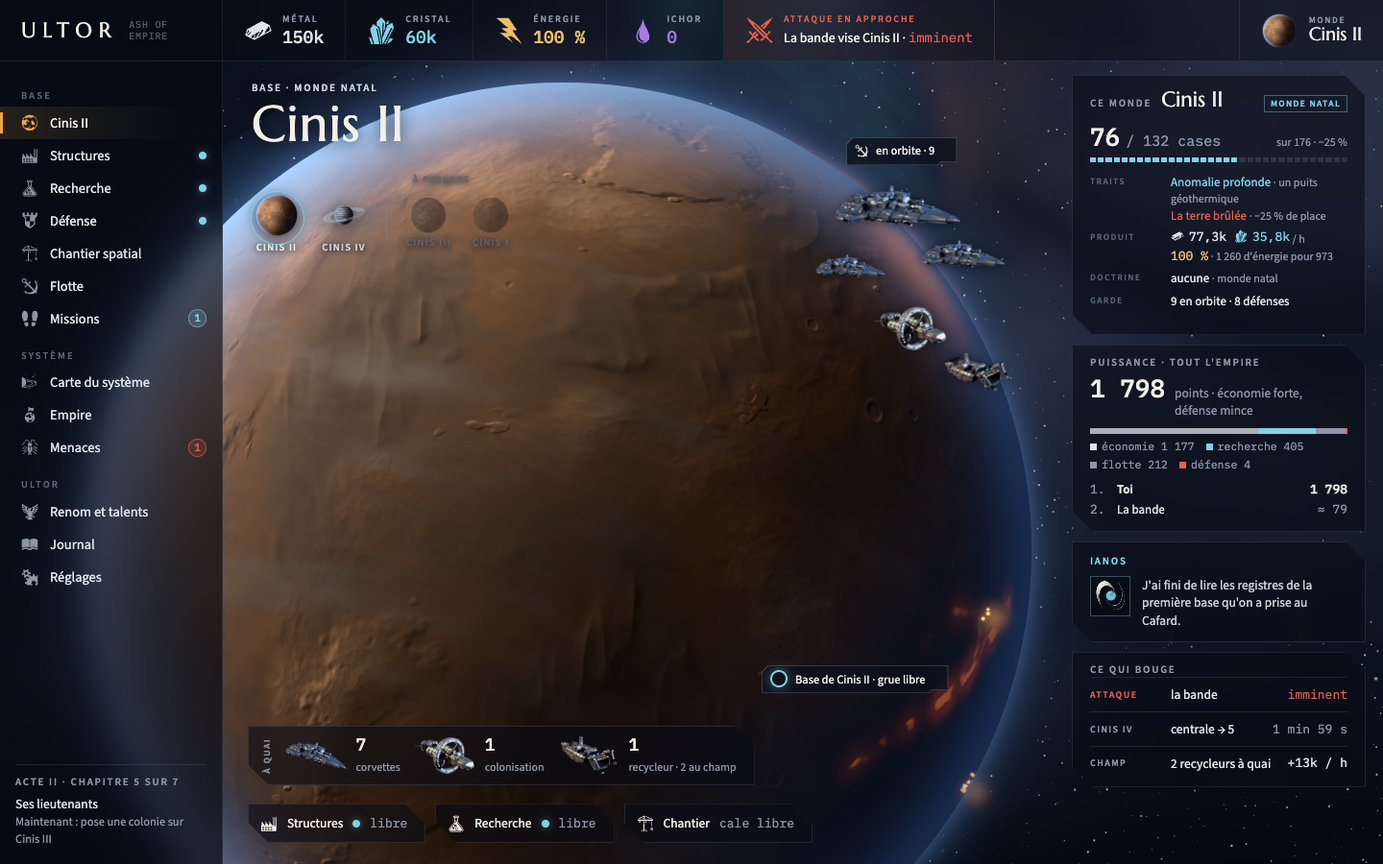
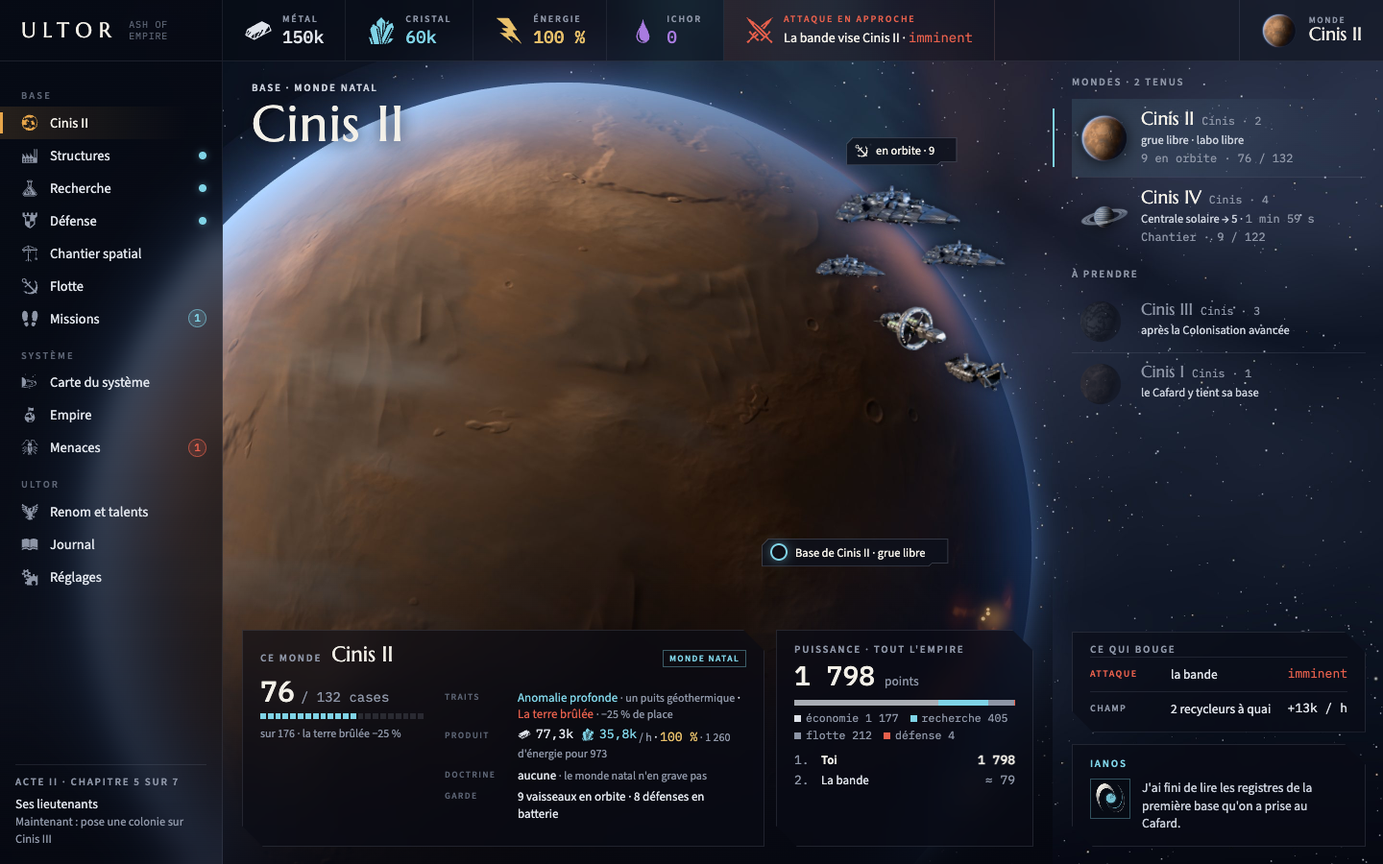
Maquettes b6158062

diff --git a/maquettes/accueil-d.html b/maquettes/accueil-d.html
@@ -35,8 +35,10 @@
 </header>
 <main class="main">
 <style>
-  /* D : la mise en page de C (la planète héroïne, les volets translucides à droite), plus le changement de monde, la
-     flotte en orbite ET à quai, et le bloc CE MONDE. Le changement de monde se fait en CSS seul (:has), animé. */
+  /* D (23 oct., le fondateur : « la puissance et la planète en bas plutôt que dans le panneau à droite, et à droite on
+     met la liste des planètes ; la flotte à quai on peut virer, structure libre, recherche libre etc ça existe déjà via
+     le menu ») : la planète en héroïne, CE MONDE et la PUISSANCE en bande sur son bas, la liste des mondes à droite — elle
+     EST le sélecteur, et le changement de monde reste animé en CSS seul (:has). */
   .screen.d { background: #05070f; }
   .screen.d .main { position: static; overflow: visible; }
   .heroes { position: absolute; inset: 0; z-index: 0; overflow: hidden; pointer-events: none; }
@@ -46,27 +48,12 @@
   .heroes .h.iv { background-image: url(img/illus/mondes/cinis-iv.jpg); }
   .screen:has(#w-ii:checked) .h.ii, .screen:has(#w-iv:checked) .h.iv { opacity: 1; transform: none; }
   .wsel { position: absolute; opacity: 0; pointer-events: none; }
-  .sw-ii, .sw-iv { transition: opacity .6s ease .15s; }
   .screen:has(#w-ii:checked) .sw-iv, .screen:has(#w-iv:checked) .sw-ii { display: none; }
+  .heroes::after { content: ""; position: absolute; left: 232px; right: 344px; bottom: 0; height: 330px;
+    background: linear-gradient(0deg, rgba(5,7,15,.88), rgba(5,7,15,.55) 45%, rgba(5,7,15,0)); }
 
   .ttl-d { position: absolute; left: 262px; top: 86px; z-index: 3; text-shadow: 0 2px 18px rgba(5,7,15,.95); }
   .ttl-d h1 { font-size: 52px; letter-spacing: .02em; margin-top: 6px; }
-  .ttl-d .sub { color: var(--dialogue); margin-top: 6px; }
-  /* le changement de monde : les globes des mondes tenus, puis ceux qu'on peut prendre, éteints */
-  .switch { position: absolute; left: 258px; top: 196px; z-index: 3; display: flex; align-items: center; gap: 10px; }
-  .switch label, .switch .off { position: relative; display: grid; justify-items: center; gap: 4px; cursor: pointer; padding: 4px 6px 6px; }
-  .switch img { width: 48px; height: 48px; transition: transform .45s cubic-bezier(.2,.7,.2,1), filter .3s; filter: drop-shadow(0 2px 8px rgba(0,0,0,.7)); }
-  .switch label:hover img { transform: scale(1.12) rotate(-6deg); }
-  .switch span { font: 600 10.5px/1 "Source Sans 3"; letter-spacing: .12em; color: var(--dialogue); text-transform: uppercase; text-shadow: 0 1px 6px rgba(5,7,15,.95); }
-  .switch label::after { content: ""; position: absolute; left: 50%; top: 3px; width: 54px; height: 54px; margin-left: -27px; border-radius: 50%;
-    border: 1px solid rgba(127,211,230,0); transition: border-color .3s, box-shadow .3s; }
-  .screen:has(#w-ii:checked) label[for=w-ii]::after, .screen:has(#w-iv:checked) label[for=w-iv]::after {
-    border-color: rgba(127,211,230,.85); box-shadow: 0 0 14px rgba(127,211,230,.35); }
-  .screen:has(#w-ii:checked) label[for=w-ii] span, .screen:has(#w-iv:checked) label[for=w-iv] span { color: var(--platinum); }
-  .switch .off img { opacity: .38; filter: grayscale(.5); width: 38px; height: 38px; }
-  .switch .sep { width: 1px; height: 40px; background: var(--rule-strong); margin: 0 4px; }
-  .switch .k2 { position: absolute; left: 172px; top: -14px; font: 600 9.5px/1 "Source Sans 3"; letter-spacing: .16em; color: var(--dim); text-transform: uppercase; }
-  .switch .off span { color: var(--dim); }
 
   .orb { position: absolute; z-index: 2; background: center / contain no-repeat; filter: drop-shadow(0 0 6px rgba(5,7,15,.6)); }
   .orb.flot { animation: derive 14s ease-in-out infinite alternate; }
@@ -74,37 +61,47 @@
   .tagp { position: absolute; z-index: 3; display: flex; align-items: center; gap: 8px; padding: 6px 24px 7px 10px; font-size: 12.5px; color: var(--platinum); white-space: nowrap; }
   .tagp .ring { width: 18px; height: 18px; border-radius: 50%; border: 2px solid var(--crystal); box-shadow: 0 0 12px rgba(127,211,230,.5); }
 
-  /* en bas : la flotte à quai, puis les trois files */
-  .quai { position: absolute; left: 258px; bottom: 82px; z-index: 3; display: flex; align-items: center; gap: 14px; padding: 10px 18px 10px 14px; }
-  .quai .q { display: grid; grid-template-columns: 64px auto; gap: 0 10px; align-items: center; }
-  .quai .q .p { width: 64px; height: 40px; background: center / contain no-repeat; }
-  .quai .q b { font: 500 18px/1 "Plex"; color: var(--platinum); } .quai .q small { display: block; font-size: 12px; color: var(--steel); margin-top: 3px; }
-  .files { position: absolute; left: 258px; bottom: 22px; z-index: 3; display: flex; gap: 10px; }
-  .chip { display: flex; align-items: center; gap: 10px; padding: 10px 18px 10px 12px; font-size: 13.5px; color: var(--platinum); }
-  .chip .t { font: 13px/1 "Plex"; color: var(--steel); }
-
-  /* la colonne de droite : CE MONDE, la puissance, IANOS, ce qui bouge */
-  .screen.d .aside { gap: 10px; padding-top: 14px; }
+  /* la bande du bas : CE MONDE, puis la PUISSANCE */
+  .bas { position: absolute; z-index: 3; left: 252px; right: 364px; bottom: 18px; display: grid; grid-template-columns: 1fr 268px; gap: 12px; }
   .cm { padding: 14px 18px 12px; }
   .cm .hd { display: flex; align-items: baseline; gap: 10px; }
   .cm .hd b { font: 22px/1 "Marcellus"; font-weight: 400; color: var(--platinum); }
   .cm .hd .tag { margin-left: auto; font: 600 9.5px/1 "Source Sans 3"; letter-spacing: .14em; color: var(--crystal); padding: 3px 6px; border: 1px solid rgba(127,211,230,.4); }
-  .slots { display: flex; align-items: baseline; gap: 6px; margin-top: 12px; }
-  .slots .u { font: 500 26px/1 "Plex"; color: var(--platinum); } .slots .t { font: 15px/1 "Plex"; color: var(--steel); }
-  .slots .l { margin-left: auto; font-size: 12px; color: var(--steel); }
-  .seg { display: grid; grid-template-columns: repeat(33, 1fr); gap: 2px; margin-top: 7px; }
-  .seg i { height: 5px; background: rgba(141,149,166,.2); } .seg i.on { background: var(--crystal); } .seg i.x { background: rgba(232,96,76,.35); }
-  .kv { display: grid; grid-template-columns: 74px 1fr; gap: 6px 10px; margin-top: 12px; font-size: 13px; }
+  .cm .row { display: grid; grid-template-columns: 170px 1fr; gap: 0 22px; margin-top: 10px; }
+  .slots { display: flex; align-items: baseline; gap: 6px; }
+  .slots .u { font: 500 30px/1 "Plex"; color: var(--platinum); } .slots .t { font: 14px/1 "Plex"; color: var(--steel); }
+  .slots .l { display: block; margin-top: 6px; font-size: 12px; color: var(--steel); }
+  .seg { display: grid; grid-template-columns: repeat(22, 1fr); gap: 2px; margin-top: 8px; }
+  .seg i { height: 6px; background: rgba(141,149,166,.2); } .seg i.on { background: var(--crystal); }
+  .kv { display: grid; grid-template-columns: 66px 1fr; gap: 5px 10px; font-size: 13px; }
   .kv dt { font: 600 9.5px/1.5 "Source Sans 3"; letter-spacing: .14em; color: var(--dim); text-transform: uppercase; padding-top: 1px; }
   .kv dd { margin: 0; color: var(--ink); line-height: 1.35; }
   .kv dd .neg { color: var(--red); } .kv dd .pos { color: var(--crystal); } .kv dd small { color: var(--steel); font-size: 12px; }
-  .pw { padding: 12px 18px 12px; }
-  .pw .tot { display: flex; align-items: baseline; gap: 10px; } .pw .tot b { font: 500 26px/1 "Plex"; color: var(--platinum); white-space: nowrap; }
-  .pw .stack { display: flex; height: 6px; margin: 9px 0 6px; } .pw .stack i { display: block; height: 100%; }
-  .pw .leg { display: flex; flex-wrap: wrap; gap: 4px 12px; font: 11.5px/1.3 "Plex"; color: var(--steel); }
+  .pw { padding: 14px 18px 12px; }
+  .pw .tot { display: flex; align-items: baseline; gap: 10px; } .pw .tot b { font: 500 28px/1 "Plex"; color: var(--platinum); white-space: nowrap; }
+  .pw .stack { display: flex; height: 6px; margin: 10px 0 6px; } .pw .stack i { display: block; height: 100%; }
+  .pw .leg { display: flex; flex-wrap: wrap; gap: 3px 12px; font: 11.5px/1.3 "Plex"; color: var(--steel); }
   .pw .leg span::before { content: ""; display: inline-block; width: 7px; height: 7px; margin-right: 5px; background: var(--c); }
   .rank { margin-top: 9px; display: grid; grid-template-columns: 20px 1fr auto; gap: 3px 8px; font-size: 13px; }
   .rank .me { color: var(--platinum); font-weight: 600; } .rank .n { font-family: "Plex"; text-align: right; }
+
+  /* la colonne de droite : la liste des mondes (le sélecteur), IANOS, ce qui bouge */
+  .screen.d .aside { gap: 12px; padding-top: 16px; }
+  .monde { display: grid; grid-template-columns: 52px 1fr; gap: 2px 12px; align-items: center; padding: 10px 10px 10px 8px; cursor: pointer;
+    position: relative; border-top: 1px solid var(--rule); transition: background .25s; }
+  .monde:first-of-type { border-top: 0; }
+  .monde img { grid-row: 1 / 4; width: 52px; height: 52px; transition: transform .45s cubic-bezier(.2,.7,.2,1); filter: drop-shadow(0 2px 8px rgba(0,0,0,.7)); }
+  .monde:hover { background: rgba(141,149,166,.07); } .monde:hover img { transform: scale(1.08) rotate(-5deg); }
+  .monde b { font: 19px/1.1 "Marcellus"; font-weight: 400; color: var(--platinum); }
+  .monde .co { font: 11.5px/1 "Plex"; color: var(--steel); margin-left: 8px; }
+  .monde .st { font-size: 12.5px; color: var(--dialogue); line-height: 1.35; }
+  .monde .st .mono { color: var(--steel); font-size: 12px; }
+  .monde::before { content: ""; position: absolute; left: -20px; top: 10px; bottom: 10px; width: 2px; background: var(--crystal); opacity: 0; transition: opacity .3s; }
+  .screen:has(#w-ii:checked) label[for=w-ii].monde, .screen:has(#w-iv:checked) label[for=w-iv].monde {
+    background: linear-gradient(90deg, rgba(127,211,230,.12), rgba(127,211,230,0)); }
+  .screen:has(#w-ii:checked) label[for=w-ii].monde::before, .screen:has(#w-iv:checked) label[for=w-iv].monde::before { opacity: 1; }
+  .monde.off { cursor: default; } .monde.off img { opacity: .42; filter: grayscale(.5); width: 44px; height: 44px; }
+  .monde.off b { color: var(--steel); font-size: 17px; }
 </style>
 
 <input class="wsel" type="radio" name="monde" id="w-ii" checked>
@@ -115,14 +112,6 @@
   <div class="sw-ii"><div class="crumb" style="color:var(--dialogue)">BASE · MONDE NATAL</div><h1>Cinis II</h1></div>
   <div class="sw-iv"><div class="crumb" style="color:var(--dialogue)">COLONIE · DOCTRINE CHANTIER</div><h1>Cinis IV</h1></div>
 </div>
-<div class="switch">
-  <label for="w-ii"><img src="img/globes/cinis-ii.png" alt=""><span>Cinis II</span></label>
-  <label for="w-iv"><img src="img/globes/cinis-iv.png" alt=""><span>Cinis IV</span></label>
-  <span class="sep"></span>
-  <span class="off" title="Cinis III · il faut la techno « Colonisation avancée »"><img src="img/globes/cinis-iii.png" alt=""><span>Cinis III</span></span>
-  <span class="off" title="Cinis I · le Cafard y tient encore sa base"><img src="img/globes/cinis-i.png" alt=""><span>Cinis I</span></span>
-  <span class="k2">à prendre</span>
-</div>
 
 <!-- la flotte en orbite : nos vaisseaux détourés, posés au limbe (Cinis IV n'a personne en orbite) -->
 <div class="sw-ii">
@@ -132,85 +121,85 @@
   <div class="orb flot" style="left:850px;top:262px;width:70px;height:35px;--r:-14deg;animation-delay:-7s;background-image:url(img/illus/orbite/lord_corvette.webp)"></div>
   <div class="orb flot" style="left:910px;top:316px;width:76px;height:52px;--r:-6deg;animation-delay:-2s;background-image:url(img/illus/orbite/colony_ship.webp)"></div>
   <div class="orb flot" style="left:985px;top:366px;width:66px;height:44px;--r:-8deg;animation-delay:-9s;background-image:url(img/illus/orbite/recycler.webp)"></div>
-  <div class="tagp fr etiquette" style="left:792px;top:692px"><span class="ring"></span>Base de Cinis II · grue libre</div>
+  <div class="tagp fr etiquette" style="left:792px;top:560px"><span class="ring"></span>Base de Cinis II · grue libre</div>
 </div>
 <div class="sw-iv">
-  <div class="tagp fr etiquette" style="left:1000px;top:210px"><span class="i sm" style="--m:url(img/icones/anchor.svg)"></span><span>personne en orbite</span></div>
-  <div class="tagp fr etiquette" style="left:760px;top:640px"><span class="ring"></span>Base de Cinis IV · Centrale solaire → 5</div>
+  <div class="tagp fr etiquette" style="left:960px;top:210px"><span class="i sm" style="--m:url(img/icones/anchor.svg)"></span><span>personne en orbite</span></div>
+  <div class="tagp fr etiquette" style="left:700px;top:540px"><span class="ring"></span>Base de Cinis IV · Centrale solaire → 5</div>
 </div>
 
-<div class="quai glass sw-ii">
-  <div class="cap" style="writing-mode:vertical-rl;transform:rotate(180deg);font-size:9.5px">À QUAI</div>
-  <div class="q"><div class="p" style="background-image:url(img/illus/orbite/lord_corvette.webp)"></div><div><b>7</b><small>corvettes</small></div></div>
-  <div class="q"><div class="p" style="background-image:url(img/illus/orbite/colony_ship.webp)"></div><div><b>1</b><small>colonisation</small></div></div>
-  <div class="q"><div class="p" style="background-image:url(img/illus/orbite/recycler.webp)"></div><div><b>1</b><small>recycleur · 2 au champ</small></div></div>
-</div>
-<div class="quai glass sw-iv"><div class="cap" style="font-size:9.5px">À QUAI</div><span class="sub">aucun vaisseau · le chantier de Cinis IV est au niveau 1</span></div>
-
-<div class="files">
-  <div class="chip glass sw-ii"><span class="i " style="--m:url(img/icones/factory.svg)"></span>Structures<span class="badge dot"></span><span class="t">libre</span></div>
-  <div class="chip glass sw-ii"><span class="i " style="--m:url(img/icones/erlenmeyer.svg)"></span>Recherche<span class="badge dot"></span><span class="t">libre</span></div>
-  <div class="chip glass sw-ii"><span class="i " style="--m:url(img/icones/crane.svg)"></span>Chantier<span class="t">cale libre</span></div>
-  <div class="chip glass sw-iv"><span class="i " style="--m:url(img/icones/factory.svg)"></span>Structures<span class="t">centrale → 5 · 1 min 59 s</span></div>
-  <div class="chip glass sw-iv"><span class="i " style="--m:url(img/icones/crane.svg)"></span>Chantier<span class="t">cale libre</span></div>
+<div class="bas">
+  <div class="cm glass">
+    <div class="sw-ii">
+      <div class="hd"><span class="cap">Ce monde</span><b>Cinis II</b><span class="tag">MONDE NATAL</span></div>
+      <div class="row">
+        <div><div class="slots"><span class="u">76</span><span class="t">/ 132 cases</span></div>
+          <div class="seg"><i class="on"></i><i class="on"></i><i class="on"></i><i class="on"></i><i class="on"></i><i class="on"></i><i class="on"></i><i class="on"></i><i class="on"></i><i class="on"></i><i class="on"></i><i class="on"></i><i class="on"></i><i></i><i></i><i></i><i></i><i></i><i></i><i></i><i></i><i></i></div>
+          <span class="sub" style="display:block;margin-top:7px;font-size:12px">sur 176 · la terre brûlée −25&nbsp;%</span></div>
+        <dl class="kv">
+          <dt>Traits</dt><dd><span class="pos">Anomalie profonde</span> <small>· un puits géothermique</small> · <span class="neg">La terre brûlée</span> <small>· −25&nbsp;% de place</small></dd>
+          <dt>Produit</dt><dd><span class="amt metal" style="margin-right:8px"><span class="i sm" style="--m:url(img/icones/metal-bar.svg)"></span>77,3k</span><span class="amt crystal" style="margin-right:0"><span class="i sm" style="--m:url(img/icones/crystal-growth.svg)"></span>35,8k</span> <small>/ h</small> · <span class="mono" style="color:var(--energy);font-size:13px">100&nbsp;%</span> <small>· 1 260 d'énergie pour 973</small></dd>
+          <dt>Doctrine</dt><dd>aucune <small>· le monde natal n'en grave pas</small></dd>
+          <dt>Garde</dt><dd>9 vaisseaux en orbite · 8 défenses en batterie</dd>
+        </dl>
+      </div>
+    </div>
+    <div class="sw-iv">
+      <div class="hd"><span class="cap">Ce monde</span><b>Cinis IV</b><span class="tag">GÉANTE</span></div>
+      <div class="row">
+        <div><div class="slots"><span class="u">9</span><span class="t">/ 122 cases</span></div>
+          <div class="seg"><i class="on"></i><i class="on"></i><i></i><i></i><i></i><i></i><i></i><i></i><i></i><i></i><i></i><i></i><i></i><i></i><i></i><i></i><i></i><i></i><i></i><i></i><i></i><i></i></div>
+          <span class="sub" style="display:block;margin-top:7px;font-size:12px">sur 124 · sans sol −10&nbsp;%</span></div>
+        <dl class="kv">
+          <dt>Traits</dt><dd><span class="pos">Anneaux larges</span> · <span class="pos">Les lunes de garde</span> <small>· chantiers −15&nbsp;%</small> · <span class="neg">Loin de l'étoile</span> <small>· centrales −15&nbsp;%</small> · <span class="neg">Sans sol</span></dd>
+          <dt>Produit</dt><dd><span class="amt metal" style="margin-right:0"><span class="i sm" style="--m:url(img/icones/metal-bar.svg)"></span>3,2k</span> <small>/ h</small> · <span class="mono" style="color:var(--energy);font-size:13px">100&nbsp;%</span></dd>
+          <dt>Doctrine</dt><dd>Chantier <small>· les chantiers d'ici durent 25&nbsp;% de moins</small></dd>
+          <dt>Terraf.</dt><dd>niveau 2 sur les 4 qui la consolident</dd>
+        </dl>
+      </div>
+    </div>
+  </div>
+  <div class="pw glass">
+    <div class="cap" style="margin-bottom:8px">Puissance · tout l'empire</div>
+    <div class="tot"><b>1 798</b><span class="sub">points</span></div>
+    <div class="stack"><i style="width:65.5%;background:var(--metal);opacity:.75"></i><i style="width:22.5%;background:var(--crystal)"></i><i style="width:11.8%;background:var(--steel)"></i><i style="width:.6%;background:var(--red)"></i></div>
+    <div class="leg"><span style="--c:var(--metal)">économie 1 177</span><span style="--c:var(--crystal)">recherche 405</span><span style="--c:var(--steel)">flotte 212</span><span style="--c:var(--red)">défense 4</span></div>
+    <div class="rank"><span class="mono" style="color:var(--steel)">1.</span><span class="me">Toi</span><span class="n me">1 798</span><span class="mono" style="color:var(--steel)">2.</span><span>La bande</span><span class="n" style="color:var(--steel)">≈ 79</span></div>
+  </div>
 </div>
 </main>
 <aside class="aside">
-<div class="cm glass">
-  <div class="sw-ii">
-    <div class="hd"><span class="cap">Ce monde</span><b>Cinis II</b><span class="tag">MONDE NATAL</span></div>
-    <div class="slots"><span class="u">76</span><span class="t">/ 132 cases</span><span class="l">sur 176 · −25 %</span></div>
-    <div class="seg"><i class="on"></i><i class="on"></i><i class="on"></i><i class="on"></i><i class="on"></i><i class="on"></i><i class="on"></i><i class="on"></i><i class="on"></i><i class="on"></i><i class="on"></i><i class="on"></i><i class="on"></i><i class="on"></i><i class="on"></i><i class="on"></i><i class="on"></i><i class="on"></i><i class="on"></i><i></i><i></i><i></i><i></i><i></i><i></i><i></i><i></i><i></i><i></i><i></i><i></i><i></i><i></i></div>
-    <dl class="kv">
-      <dt>Traits</dt><dd><span class="pos">Anomalie profonde</span> <small>· un puits géothermique</small><br><span class="neg">La terre brûlée</span> <small>· −25&nbsp;% de place</small></dd>
-      <dt>Produit</dt><dd><span class="amt metal" style="margin-right:8px"><span class="i sm" style="--m:url(img/icones/metal-bar.svg)"></span>77,3k</span><span class="amt crystal" style="margin-right:0"><span class="i sm" style="--m:url(img/icones/crystal-growth.svg)"></span>35,8k</span> <small>/ h</small><br><span class="mono" style="color:var(--energy);font-size:13px">100 %</span> <small>· 1 260 d'énergie pour 973</small></dd>
-      <dt>Doctrine</dt><dd>aucune <small>· monde natal</small></dd>
-      <dt>Garde</dt><dd>9 en orbite · 8 défenses</dd>
-    </dl>
-  </div>
-  <div class="sw-iv">
-    <div class="hd"><span class="cap">Ce monde</span><b>Cinis IV</b><span class="tag">GÉANTE</span></div>
-    <div class="slots"><span class="u">9</span><span class="t">/ 122 cases</span><span class="l">sur 124 · −10 %</span></div>
-    <div class="seg"><i class="on"></i><i class="on"></i><i class="on"></i><i></i><i></i><i></i><i></i><i></i><i></i><i></i><i></i><i></i><i></i><i></i><i></i><i></i><i></i><i></i><i></i><i></i><i></i><i></i><i></i><i></i><i></i><i></i><i></i><i></i><i></i><i></i><i></i><i></i><i></i></div>
-    <dl class="kv">
-      <dt>Traits</dt><dd><span class="pos">Anneaux larges</span> <small>· une cale s'y ancre</small><br><span class="pos">Les lunes de garde</span> <small>· chantiers −15&nbsp;%</small><br><span class="neg">Loin de l'étoile</span> <small>· centrales −15&nbsp;%</small> · <span class="neg">Sans sol</span> <small>· −10&nbsp;% de place</small></dd>
-      <dt>Produit</dt><dd><span class="amt metal" style="margin-right:0"><span class="i sm" style="--m:url(img/icones/metal-bar.svg)"></span>3,2k</span> <small>/ h</small> · <span class="mono" style="color:var(--energy);font-size:13px">100 %</span></dd>
-      <dt>Doctrine</dt><dd>Chantier <small>· les chantiers d'ici durent 25&nbsp;% de moins</small></dd>
-      <dt>Terraf.</dt><dd>niveau 2 sur les 4 qui la consolident</dd>
-    </dl>
-  </div>
+<div class="cap">Mondes · 2 tenus</div>
+<div>
+  <label class="monde" for="w-ii"><img src="img/globes/cinis-ii.png" alt=""><div><b>Cinis II</b><span class="co">Cinis · 2</span></div><div class="st">grue libre · labo libre</div><div class="st"><span class="mono">9 en orbite · 76 / 132</span></div></label>
+  <label class="monde" for="w-iv"><img src="img/globes/cinis-iv.png" alt=""><div><b>Cinis IV</b><span class="co">Cinis · 4</span></div><div class="st">Centrale solaire → 5 · <span class="mono">1 min 59 s</span></div><div class="st"><span class="mono">Chantier · 9 / 122</span></div></label>
 </div>
-<div class="pw glass">
-  <div class="cap" style="margin-bottom:8px">Puissance · tout l'empire</div>
-  <div class="tot"><b>1 798</b><span class="sub">points · économie forte, défense mince</span></div>
-  <div class="stack"><i style="width:65.5%;background:var(--metal);opacity:.75"></i><i style="width:22.5%;background:var(--crystal)"></i><i style="width:11.8%;background:var(--steel)"></i><i style="width:.6%;background:var(--red)"></i></div>
-  <div class="leg"><span style="--c:var(--metal)">économie 1 177</span><span style="--c:var(--crystal)">recherche 405</span><span style="--c:var(--steel)">flotte 212</span><span style="--c:var(--red)">défense 4</span></div>
-  <div class="rank"><span class="mono" style="color:var(--steel)">1.</span><span class="me">Toi</span><span class="n me">1 798</span><span class="mono" style="color:var(--steel)">2.</span><span>La bande</span><span class="n" style="color:var(--steel)">≈ 79</span></div>
+<div class="cap" style="margin-top:2px">À prendre</div>
+<div>
+  <div class="monde off" title="il faut la techno « Colonisation avancée »"><img src="img/globes/cinis-iii.png" alt=""><div><b>Cinis III</b><span class="co">Cinis · 3</span></div><div class="st">après la Colonisation avancée</div></div>
+  <div class="monde off" title="le Cafard y tient encore sa base"><img src="img/globes/cinis-i.png" alt=""><div><b>Cinis I</b><span class="co">Cinis · 1</span></div><div class="st">le Cafard y tient sa base</div></div>
 </div>
-<div class="glass" style="padding:14px 18px 12px">
+<div class="glass" style="padding:12px 18px 6px;margin-top:auto">
+  <div class="cap" style="margin-bottom:2px">Ce qui bouge</div>
+  <div class="feed"><span style="color:var(--red);font:600 10px/1 'Source Sans 3';letter-spacing:.14em">ATTAQUE</span><span>la bande</span><span class="mono" style="color:var(--red);font-size:13px">imminent</span></div>
+  <div class="feed"><span style="color:var(--steel);font:600 10px/1 'Source Sans 3';letter-spacing:.14em">CHAMP</span><span>2 recycleurs à quai</span><span class="mono" style="font-size:13px;color:var(--ink)">+13k / h</span></div>
+</div>
+<div class="glass" style="padding:14px 18px 14px">
   <div class="cap" style="color:var(--crystal);margin-bottom:10px">IANOS</div>
   <div style="display:grid;grid-template-columns:42px 1fr;gap:12px;align-items:start">
     <div style="width:42px;height:42px;background:url(img/ianos.png) center/cover;border:1px solid rgba(127,211,230,.35)"></div>
     <p style="margin:0;color:var(--dialogue);font-size:13.5px;line-height:1.4">J'ai fini de lire les registres de la première base qu'on a prise au Cafard.</p>
   </div>
 </div>
-<div class="glass" style="padding:12px 18px 6px">
-  <div class="cap" style="margin-bottom:2px">Ce qui bouge</div>
-  <div class="feed"><span style="color:var(--red);font:600 10px/1 'Source Sans 3';letter-spacing:.14em">ATTAQUE</span><span>la bande</span><span class="mono" style="color:var(--red);font-size:13px">imminent</span></div>
-  <div class="feed"><span style="color:var(--steel);font:600 10px/1 'Source Sans 3';letter-spacing:.14em">CINIS IV</span><span>centrale → 5</span><span class="time">1 min 59 s</span></div>
-  <div class="feed"><span style="color:var(--steel);font:600 10px/1 'Source Sans 3';letter-spacing:.14em">CHAMP</span><span>2 recycleurs à quai</span><span class="mono" style="font-size:13px;color:var(--ink)">+13k / h</span></div>
-</div>
 </aside>
 </div>
 <div class="legend">
-<b>Accueil D, B et C mêlés.</b> La mise en page de C (Cinis II en grand croissant, rendue par la sonde dans la vraie
-scène de l'accueil, l'interface en volets translucides) et ce que le fondateur a retenu de B : <b>le changement de monde</b>
-(les globes sous le titre, un clic et la planète, le titre, CE MONDE et la flotte changent ; Cinis III et Cinis I, à
-prendre, éteints, leur condition au survol), <b>la flotte en orbite</b> (nos vaisseaux détourés, posés au limbe) <b>et à
-quai</b> (le même compte, en liste : c'est la même garnison, le jeu n'a pas d'autre état d'orbite), et le bloc <b>CE
-MONDE</b> à la manière d'OGame : les cases utilisées sur le total (176, moins le quart que la terre brûlée retire), les
-traits, ce que le monde produit, sa doctrine, sa garde ; puis <b>la puissance</b> de tout l'empire et son classement
-contre les rivaux connus. Le jeu n'a ni diamètre ni température : la maquette n'en invente pas (voir docs/WEB.md § 9).
-Cinis IV en héroïne est une illustration de Cycles d'après son globe (le jeu n'a pas encore de pose d'accueil pour elle).
+<b>Accueil D, repris le 23 oct.</b> La planète en héroïne (Cinis II rendue par la sonde dans la vraie scène de l'accueil),
+la flotte en orbite posée au limbe, et sur son bas une bande : <b>CE MONDE</b> à la manière d'OGame (les cases utilisées sur
+le total, les traits, ce que le monde produit, sa doctrine, sa garde) et <b>la puissance</b> de l'empire avec son classement
+contre les rivaux connus. À droite, <b>la liste des mondes</b> : elle est le sélecteur (un clic sur Cinis IV, et la planète,
+le titre et CE MONDE glissent, en CSS seul) ; les mondes à prendre dessous, éteints, leur condition en mots. La flotte à quai
+et les pastilles des files ont disparu : le menu les dit déjà. Le jeu n'a ni diamètre ni température : la maquette n'en
+invente pas. Cinis IV en héroïne est une illustration Cycles d'après son globe.
 </div>
 </body></html>
